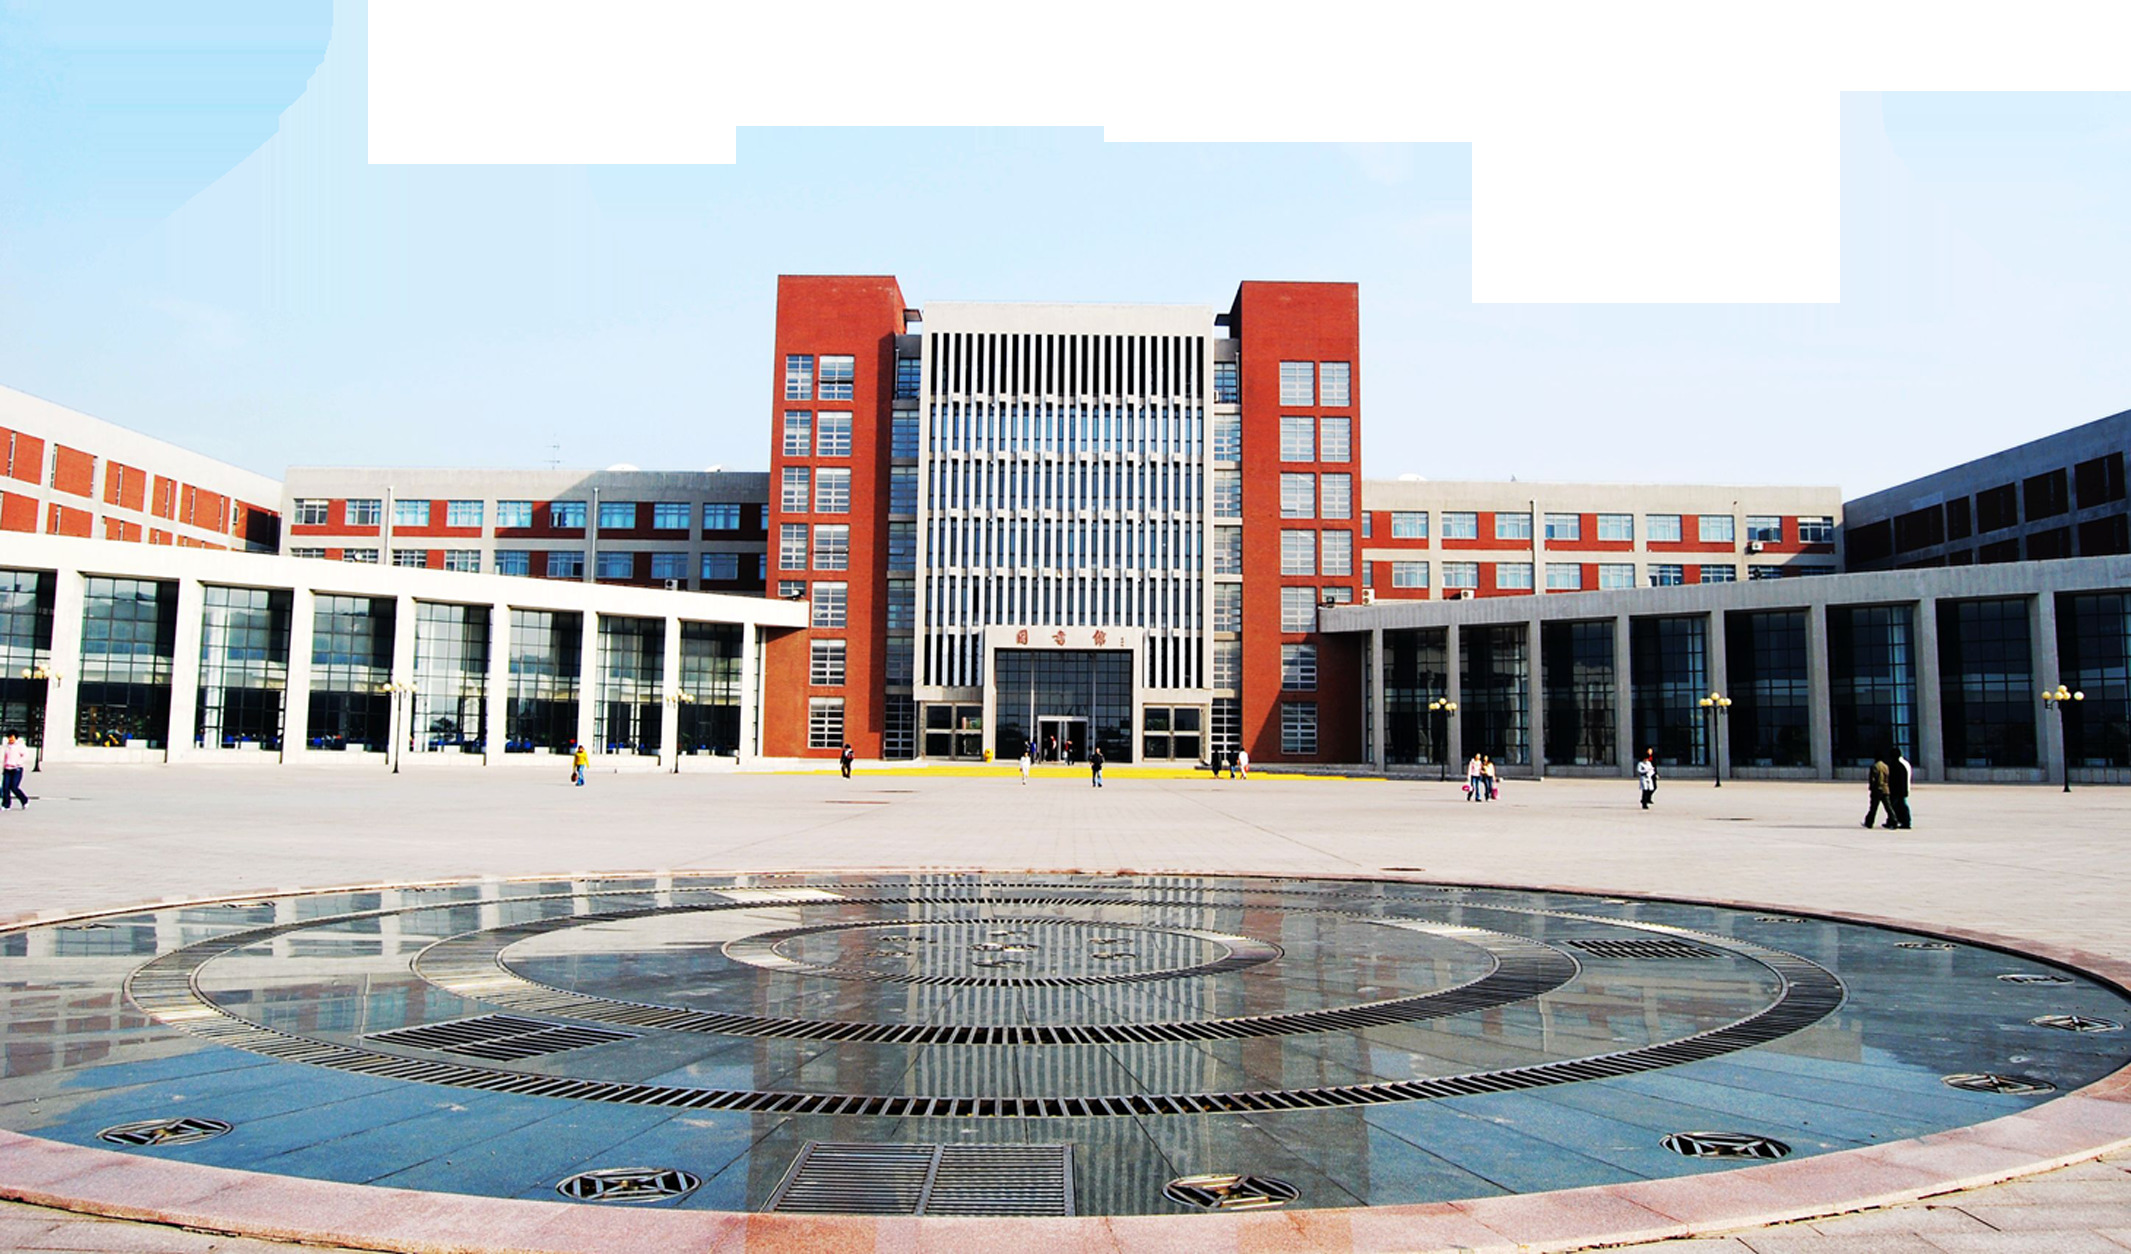
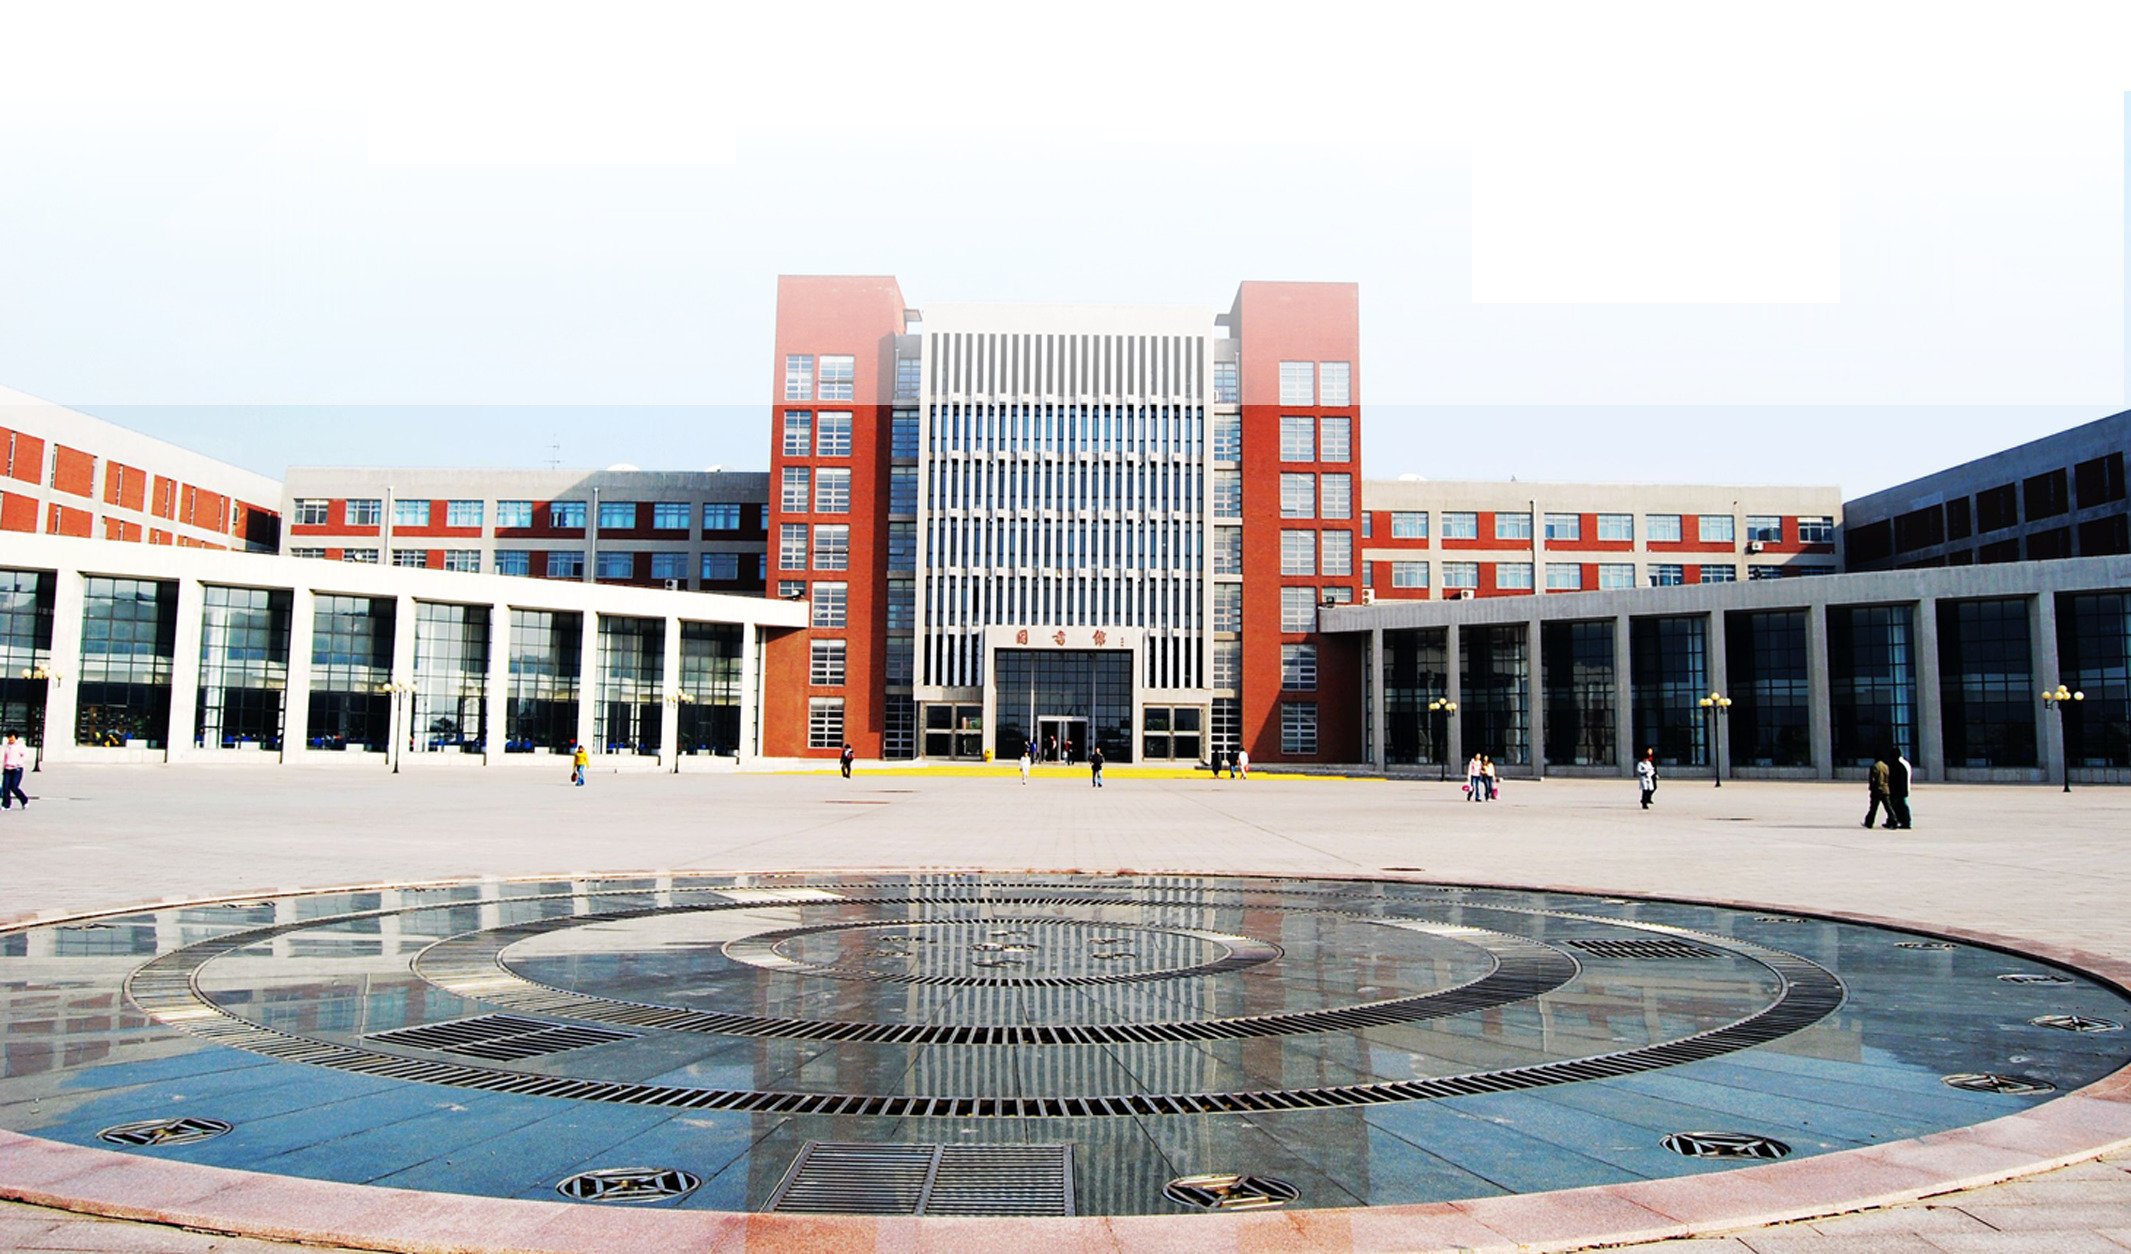
minor changes

Changed region(s): [[0.0, 0.0, 0.7123, 0.3421], [0.8672, 0.0622, 1.0, 0.1866]]

diff --git a/css/timeline.css b/css/timeline.css
@@ -16,16 +16,17 @@
   margin-left: -1.5px;
 }
 
+.timeline .clear {
+    clear:both;
+    }
 .tldate {
   display: block;
   width: 100px;
-  background: rgb(0, 150, 136);
   color: #ededed;
   margin: 0 auto;
-  padding: 3px 0;
+  padding:0px; 
   font-weight: bold;
   text-align: center;
-  -webkit-box-shadow: 0 0 11px rgba(0,0,0,0.35);
 }
 
 .timeline li {
@@ -36,15 +37,19 @@
 .timeline li:before, .timeline li:after {
   content: " ";
   display: table;
-}
+}*
 .timeline li:after {
-  clear: both;
+  clear: right;
+  content:" ";
+}
+.timeline li.timeline-inverted:after {
+  clear: left;
+  content:" ";
 }
 .timeline li:before, .timeline li:after {
   content: " ";
   display: table;
 }
-/**
 /** timeline panels **/
 .timeline li .panel {
   width: 46%;
@@ -59,12 +64,13 @@
 /** panel arrows **/
 .timeline li .panel:before {
   position: absolute;
+  color:#eee;
   top: 28px;
   right: -15px;
   display: inline-block;
   border-top: 15px solid transparent;
-  border-left: 15px solid #ccc;
-  border-right: 0 solid #ccc;
+  border-left: 15px solid #eee;
+  border-right: 0 solid #eee;
   border-bottom: 15px solid transparent;
   content: " ";
 }
@@ -75,8 +81,8 @@
   right: -14px;
   display: inline-block;
   border-top: 14px solid transparent;
-  border-left: 14px solid #fff;
-  border-right: 0 solid #fff;
+  border-left: 14px solid #eee;
+  border-right: 0 solid #eee;
   border-bottom: 14px solid transparent;
   content: " ";
 }
@@ -90,7 +96,7 @@
 .timeline li.timeline-inverted .panel {
   float: right;
 }
-
+  
 .timeline li.timeline-inverted .panel:before {
   border-left-width: 0;
   border-right-width: 15px;
@@ -124,7 +130,6 @@
   border-bottom-left-radius: 50%;
 }
 
-
 /** timeline content **/
 
 .panel-heading h4 {
@@ -138,6 +143,7 @@
 
 .panel-body {
     background: url("/images/quotes_bg.png") 10px 20px no-repeat ;
+    background-color:#eee;
     line-height: 24px;
     padding: 50px 12px 9px 34px;
 }

diff --git a/index.html b/index.html
@@ -109,8 +109,7 @@
 	<!-- main container -->
     <div id="main-container" class="main-container">
 		<!-- timeline -->
-        <ul class="timeline">
-        <li><div class="tldate">Apr 2014</div></li> 
+        <ul class="timeline"> 
         <li>
             <div class="tl-circ"></div>
             <div class="panel panel-primary">
@@ -126,6 +125,28 @@
                     </div>
                 </div>
             </div>
+        </li>
+        <li class="timeline-inverted">
+            <div class="tl-circ"></div>
+            <div class="panel panel-primary">
+                <div class="panel-body">
+                    1月22日下午2点，计算机学院在河西校区主楼C区报告厅隆重举行2015年度总结暨优秀成果表彰大会。校纪委书记张爱华出席会议并做出重要讲话，学院领导与全院教职工参加会议。
+                </div>
+                <div class="panel-footer">
+                    <div class="row">
+                        <div class="col-md-9"><h3 class="panel-title">我院2015年度总结暨优秀成果表彰大会隆重举行</h3></div>
+                        <div class="col-md-3">
+                    
+                        </div>
+                    </div>
+                </div>
+            </div>
+        </li>
+        <li class="clear"></li>
+        <li>
+        <div class="tldate">
+            <img src="/images/2.2.png" class="img-responsive"/>
+        </div>
         </li>    
         <li class="timeline-inverted">
             <div class="tl-circ"></div>
@@ -142,10 +163,11 @@
                 </div>
             </div>
         </li>
-    <li><div class="tldate">Future</div></li>  
+        <li class="clear"></li>
+    <li><div class="tldate"><img src="/images/2.1.jpg" class="img-responsive"/></div><hr /><hr /></li>  
     </ul>
     </div>
-	<div 
+	<div>
     </div>
     <!-- footer -->
     <footer id="main-footer">

diff --git a/css/custom.css b/css/custom.css
@@ -4,6 +4,7 @@ body {
     font-size: 14px;
     line-height: 1.42857143;
     color: #333;
+    background-color:#fff;
     }
 
 /* cise */
@@ -51,6 +52,10 @@ body {
     font-color:#fff;
     }        
 /* spotlights */
+#spotlights {
+    background-color:#fff;
+    }
+
 #myCarousel {
     border:2px solid;
     box-shadow: 10px 10px 5px #888888;
@@ -80,11 +85,13 @@ body {
 #ncre-main {
     padding-left:0px;
     padding-right:0px;
-    background-color:#c1cce2;
+    padding-top:40px;
+    background-color:rgba(193, 204, 226, 0.7);
     }
     
 #ncre-main .row {
     width:100%;
+    padding:20px;
     /* For internet explorer */
     filter:alpha(opacity=1);
     /* CSS3 standard */
@@ -103,7 +110,6 @@ body {
     background-repeat:no-repeat;
     background-size:cover;
     background-position:bottom;
-    padding-top:40px;
     }
 
 #main-footer p {
@@ -111,12 +117,20 @@ body {
     }
 
 /* links footer */
+#foot-footer {
+    width:100%;
+    background-color:rgba(0, 115, 170, 0.9);
+    }
 
 #links {
     padding-top:15px;
     padding-bottom:15px;
+    color:#fff;
     }
 
+#links a {
+    color:#ccc;
+    }
 /* media query */
 .main-container {
   padding-right: 15px;
